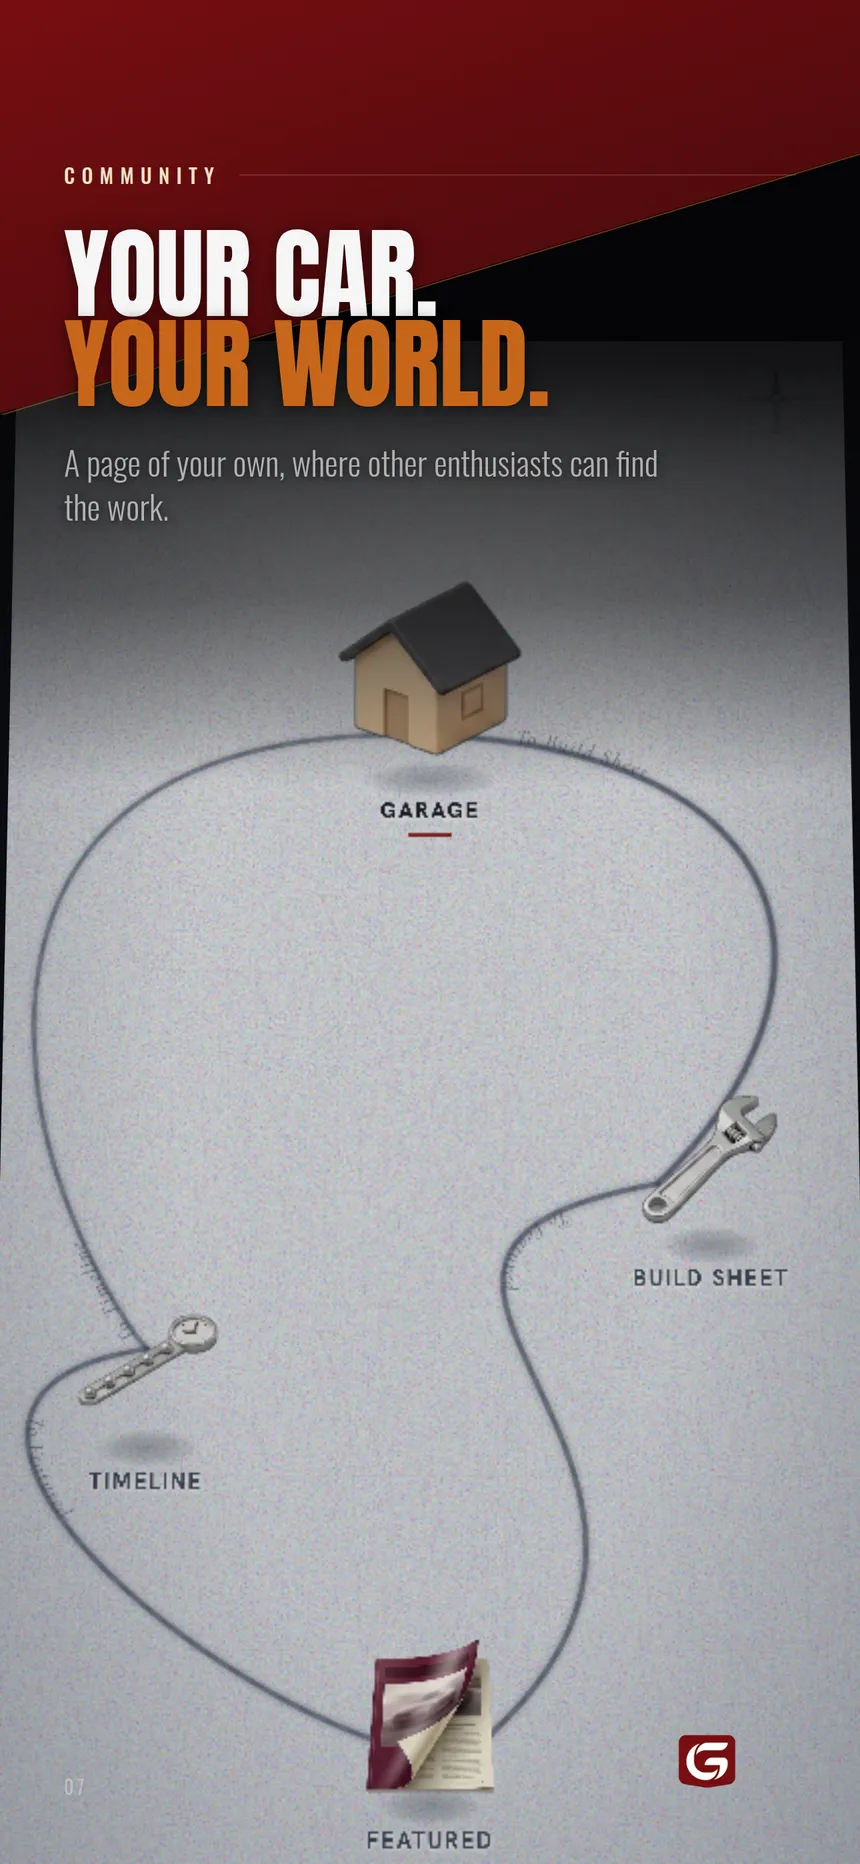
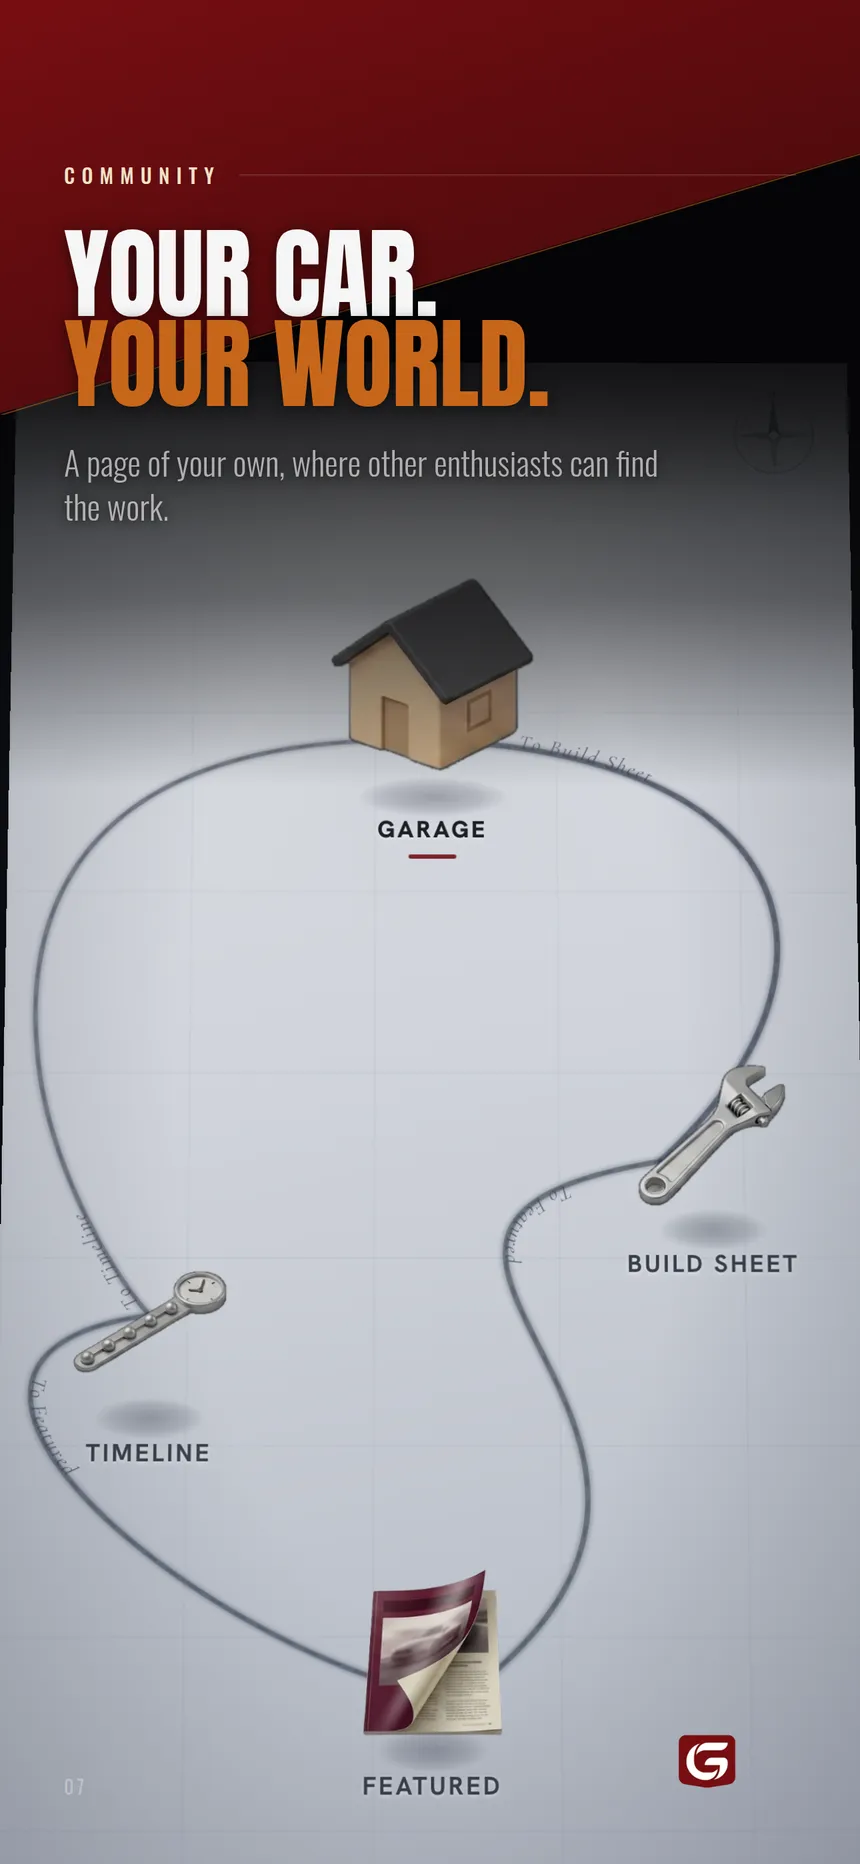
Store shots: closer uses a real device capture of the public profile
Swaps the headless capture for an iPhone screenshot, the same fix panel 06's
Home map needed. Both screens carry a fractal-noise texture that Blink resolves
per device pixel and WebKit resolves into tone, so a headless render is always
speckled and no amount of supersampling, median or blur removes it. The iOS
status bar and the app header are cropped off in the source, which also takes a
real face off the store listing.

The device screenshots are now TRACKED. Everything else under
design/store-shots/raw/ is produced by capture-store-shots.mjs and regenerable
at will, but these two can only come off a phone — nothing in the repo can
reproduce them, so an ignored raw/ directory would have quietly discarded the
only copy. The ignore rule changes from the directory to its contents, because
git cannot re-include a file inside an excluded directory.

Claude-Session: https://claude.ai/code/session_013XL6RL6K185GyktqiHZRtq

Changed region(s): [[0.0, 0.2489, 1.0, 0.9957], [0.4233, 0.7157, 0.4535, 0.7468], [0.3326, 0.7157, 0.3628, 0.7468]]

diff --git a/design/store-shots/panel-07.html b/design/store-shots/panel-07.html
@@ -11,14 +11,19 @@
      The old version showed Home and claimed you share "garage, tuning, service,
      timeline and cover" — but service is never public. The public profile shows
      exactly the four destinations a visitor actually gets, so the picture and
-     the claim now agree without anyone having to take the copy on trust. */
+     the claim now agree without anyone having to take the copy on trust.
+
+     The art is a REAL DEVICE screenshot. This screen carries its own
+     fractal-noise grain, and like the Home map it comes out speckled from a
+     headless capture because Blink resolves feTurbulence per device pixel where
+     WebKit resolves it into tone. The iOS status bar and the app header are
+     cropped off in the source file. */
   :root {
     /* The map's own span from the Garage node to the Featured label is ~1800px
-       and the canvas has almost exactly that below the type, so the shift and
-       the type block are tuned against each other: raise the type, shorten the
+       and the canvas has almost exactly that below the type, so the art offset
+       and the type block are tuned against each other: raise the type, keep the
        deck to two lines, and all four nodes fit without the last one falling
        off the bottom edge. */
-    --shift: 310px;
     --type-top: 240px; --headline-size: 150px;
     --scrim-top: 0px; --scrim-h: 1180px;
   }
@@ -26,11 +31,8 @@
 </head>
 <body>
 <div class="canvas">
-  <img class="art" src="raw/pub-profile.png" alt="">
-  <!-- The shift carries the app header ("Leave", avatar, "Visiting @…") down
-       past the wedge's right edge, where it would show as a bright bar. It also
-       carried a real face onto a store listing. -->
-  <div class="mask" style="left:0; right:0; top:222px; height:290px; z-index:1;"></div>
+  <img src="raw/pub-profile-device.png" alt=""
+       style="position:absolute; left:0; top:540px; width:1290px; height:auto; z-index:1;">
 
   <div class="type-scrim"></div>
   <div class="wedge"></div><div class="wedge-edge"></div>
